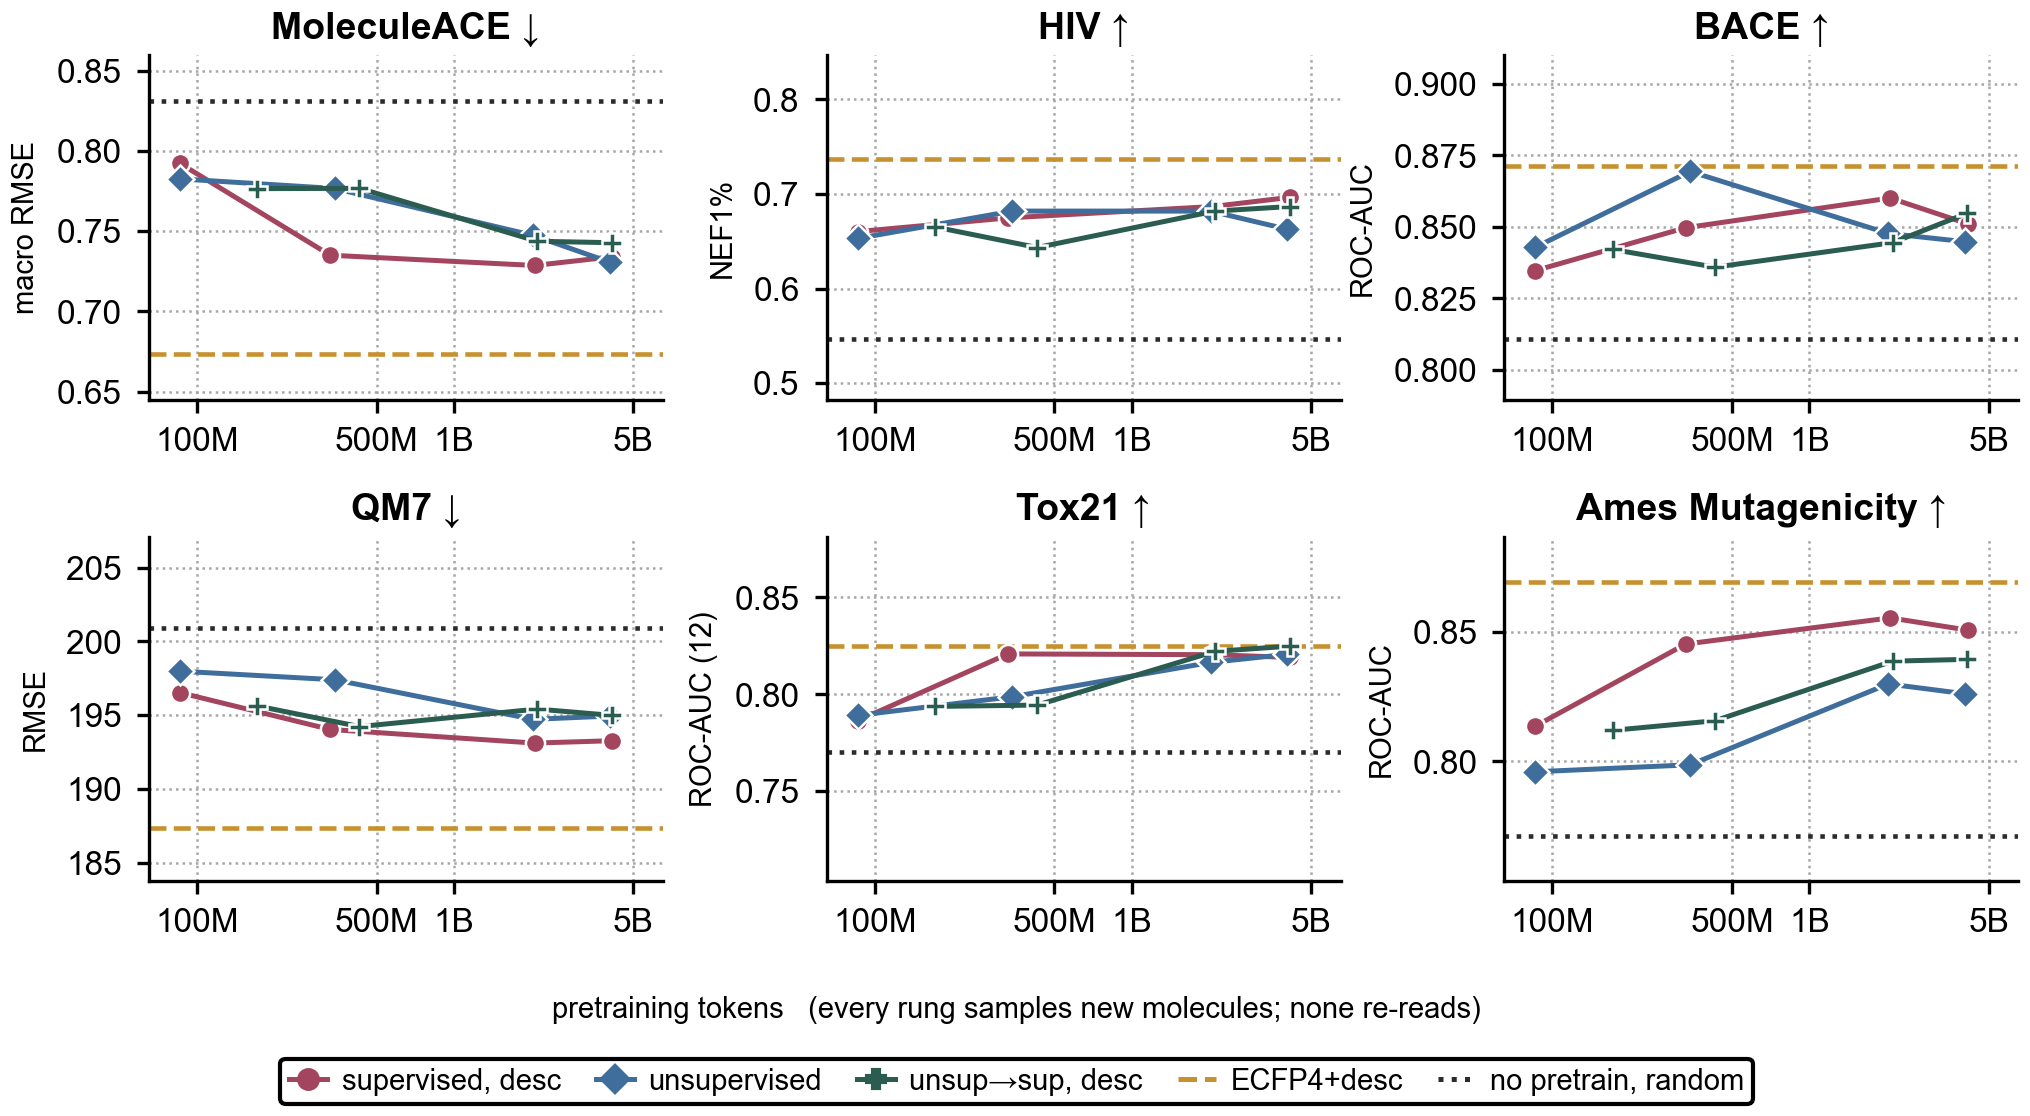
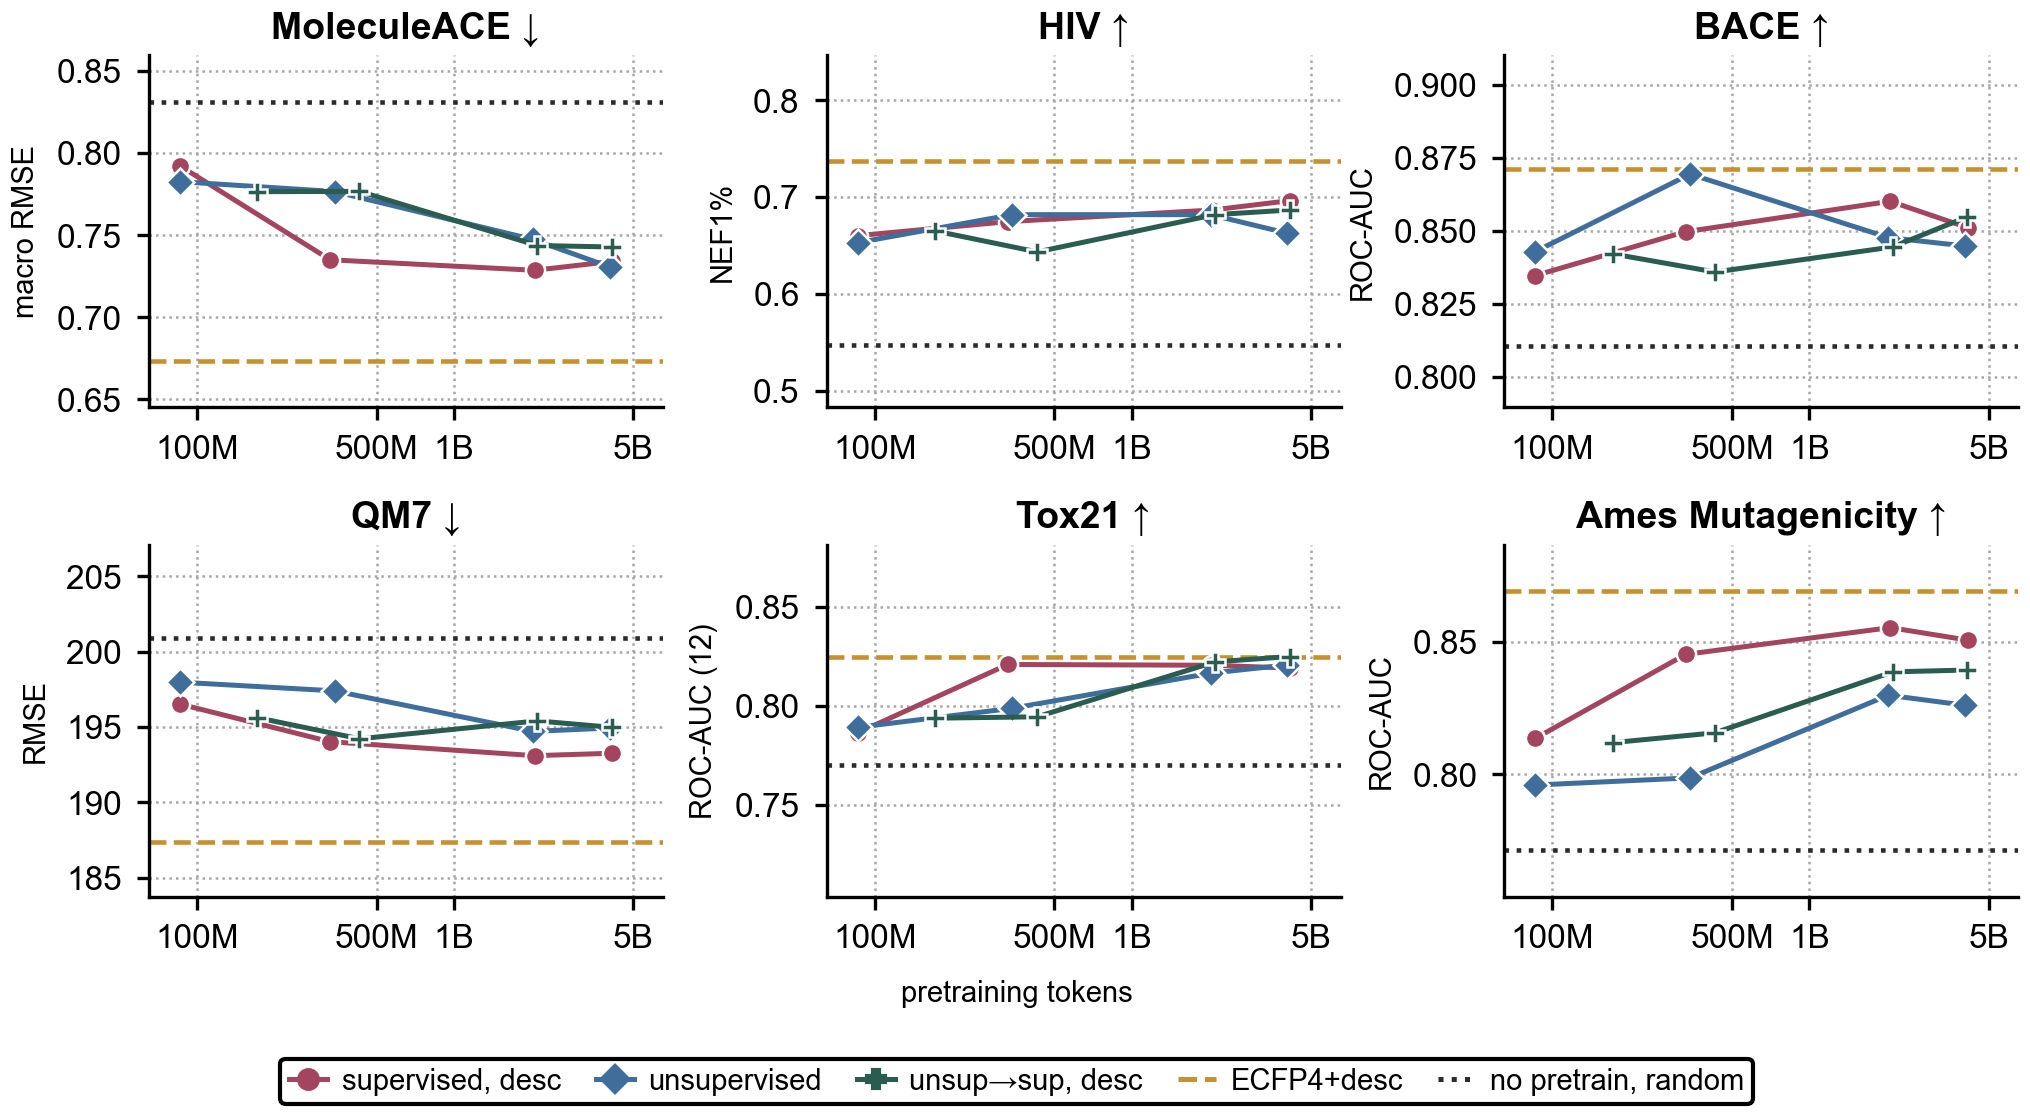
fig_B: x-label is plain "pretraining tokens", moved up to the panels
Leif: "please write 'pretraining tokens' and move that closer to the figures."

The label previously read "pretraining tokens   (every rung samples new molecules; none re-reads)".
The parenthetical is gone from the plate but the CONSTRAINT IT STATED IS NOT OPTIONAL, so the
docstring now says in capitals that the caption must carry it: this cut drops every rung that
re-reads the 12M corpus, which makes the x-axis a DATA axis rather than a compute axis. A reader
who takes it as compute mis-reads the whole plate -- skip_dense_96M is 4.12B tokens of the same 12M
molecules and is deliberately not drawn. An axis that silently changes meaning is worse than a long
label, so the sentence moves rather than disappearing.

The two unrendered variants keep their own qualifiers; they are exploratory and nothing draws them.

Label and rect bottom moved together (0.068 -> 0.082, rect 0.112 -> 0.098). Raising the label alone
drops it into the legend; lowering the rect alone just reopens the gap lower down.

diff --git a/figures/fig_B.py b/figures/fig_B.py
@@ -26,6 +26,13 @@ the _c124 rung is on the line (Leif 2026-08-28); the pair is a caption number, a
 budget the 124M corpus wins on all six panels: MoleculeACE -0.0391, Ames +0.0299, Tox21 +0.0247,
 HIV +0.0169, QM7 -0.64, BACE +0.0012.
 
+CAPTION MUST CARRY THE NO-RE-READ CONSTRAINT. The x-axis label was shortened to plain
+"pretraining tokens" on 2026-08-29 (Leif), dropping the qualifier "every rung samples new
+molecules; none re-reads" that used to sit beside it. That sentence is not decoration: this cut
+DROPS every rung above the 12M corpus cap, so tokens here is a DATA axis, not a compute axis. A
+reader who assumes otherwise mis-reads the whole plate -- skip_dense_96M is 4.12B tokens of the
+same 12M molecules and is deliberately absent. Put it in the caption.
+
 NO error bars (user decision 2026-08-17: they made every panel unreadable — single clean
 variant, no banded variant). The underlying
 spread is sd_total in figure_data/six_panel/scaling_ladders.csv — 5-fold SD at every rung
@@ -282,11 +289,20 @@ def _panels(banded, variant="marked"):
     # near the canvas floor: with loc="upper center" a low anchor hangs the legend body off
     # the canvas, and savefig("tight") then GROWS the image downward to contain it -- which
     # adds exactly the white band it looks like it should remove.
-    fig.tight_layout(rect=(0, 0.112, 1, 1), w_pad=0.35)
+    # LABEL PULLED UP TOWARDS THE PANELS (Leif 2026-08-29). The rect bottom and the label's y move
+    # together: raising the label alone drops it into the legend, lowering the rect alone just
+    # reopens the gap further down.
+    fig.tight_layout(rect=(0, 0.098, 1, 1), w_pad=0.35)
+    # PLAIN "pretraining tokens" ON THE PAPER CUT (Leif 2026-08-29). The parenthetical it replaces
+    # -- "every rung samples new molecules; none re-reads" -- is a REAL CONSTRAINT ON THE READING,
+    # not decoration: this cut drops every rung that re-reads the 12M corpus, so a reader who
+    # assumes the x-axis is compute rather than data would mis-read the whole plate. THAT SENTENCE
+    # MUST NOW APPEAR IN THE CAPTION, because the axis no longer carries it. The other two variants
+    # keep their qualifiers; they are exploratory and are not rendered.
     xlab = {"marked": "pretraining tokens  (hollow = corpus re-read, no new molecules)",
-            "nodup":  "pretraining tokens   (every rung samples new molecules; none re-reads)",
+            "nodup":  "pretraining tokens",
             "unique": "unique molecules seen"}[variant]
-    fig.text(0.5, 0.068, xlab, ha="center", va="bottom", fontsize=FS["annot"], color=INK)
+    fig.text(0.5, 0.082, xlab, ha="center", va="bottom", fontsize=FS["annot"], color=INK)
     return fig
 
 
